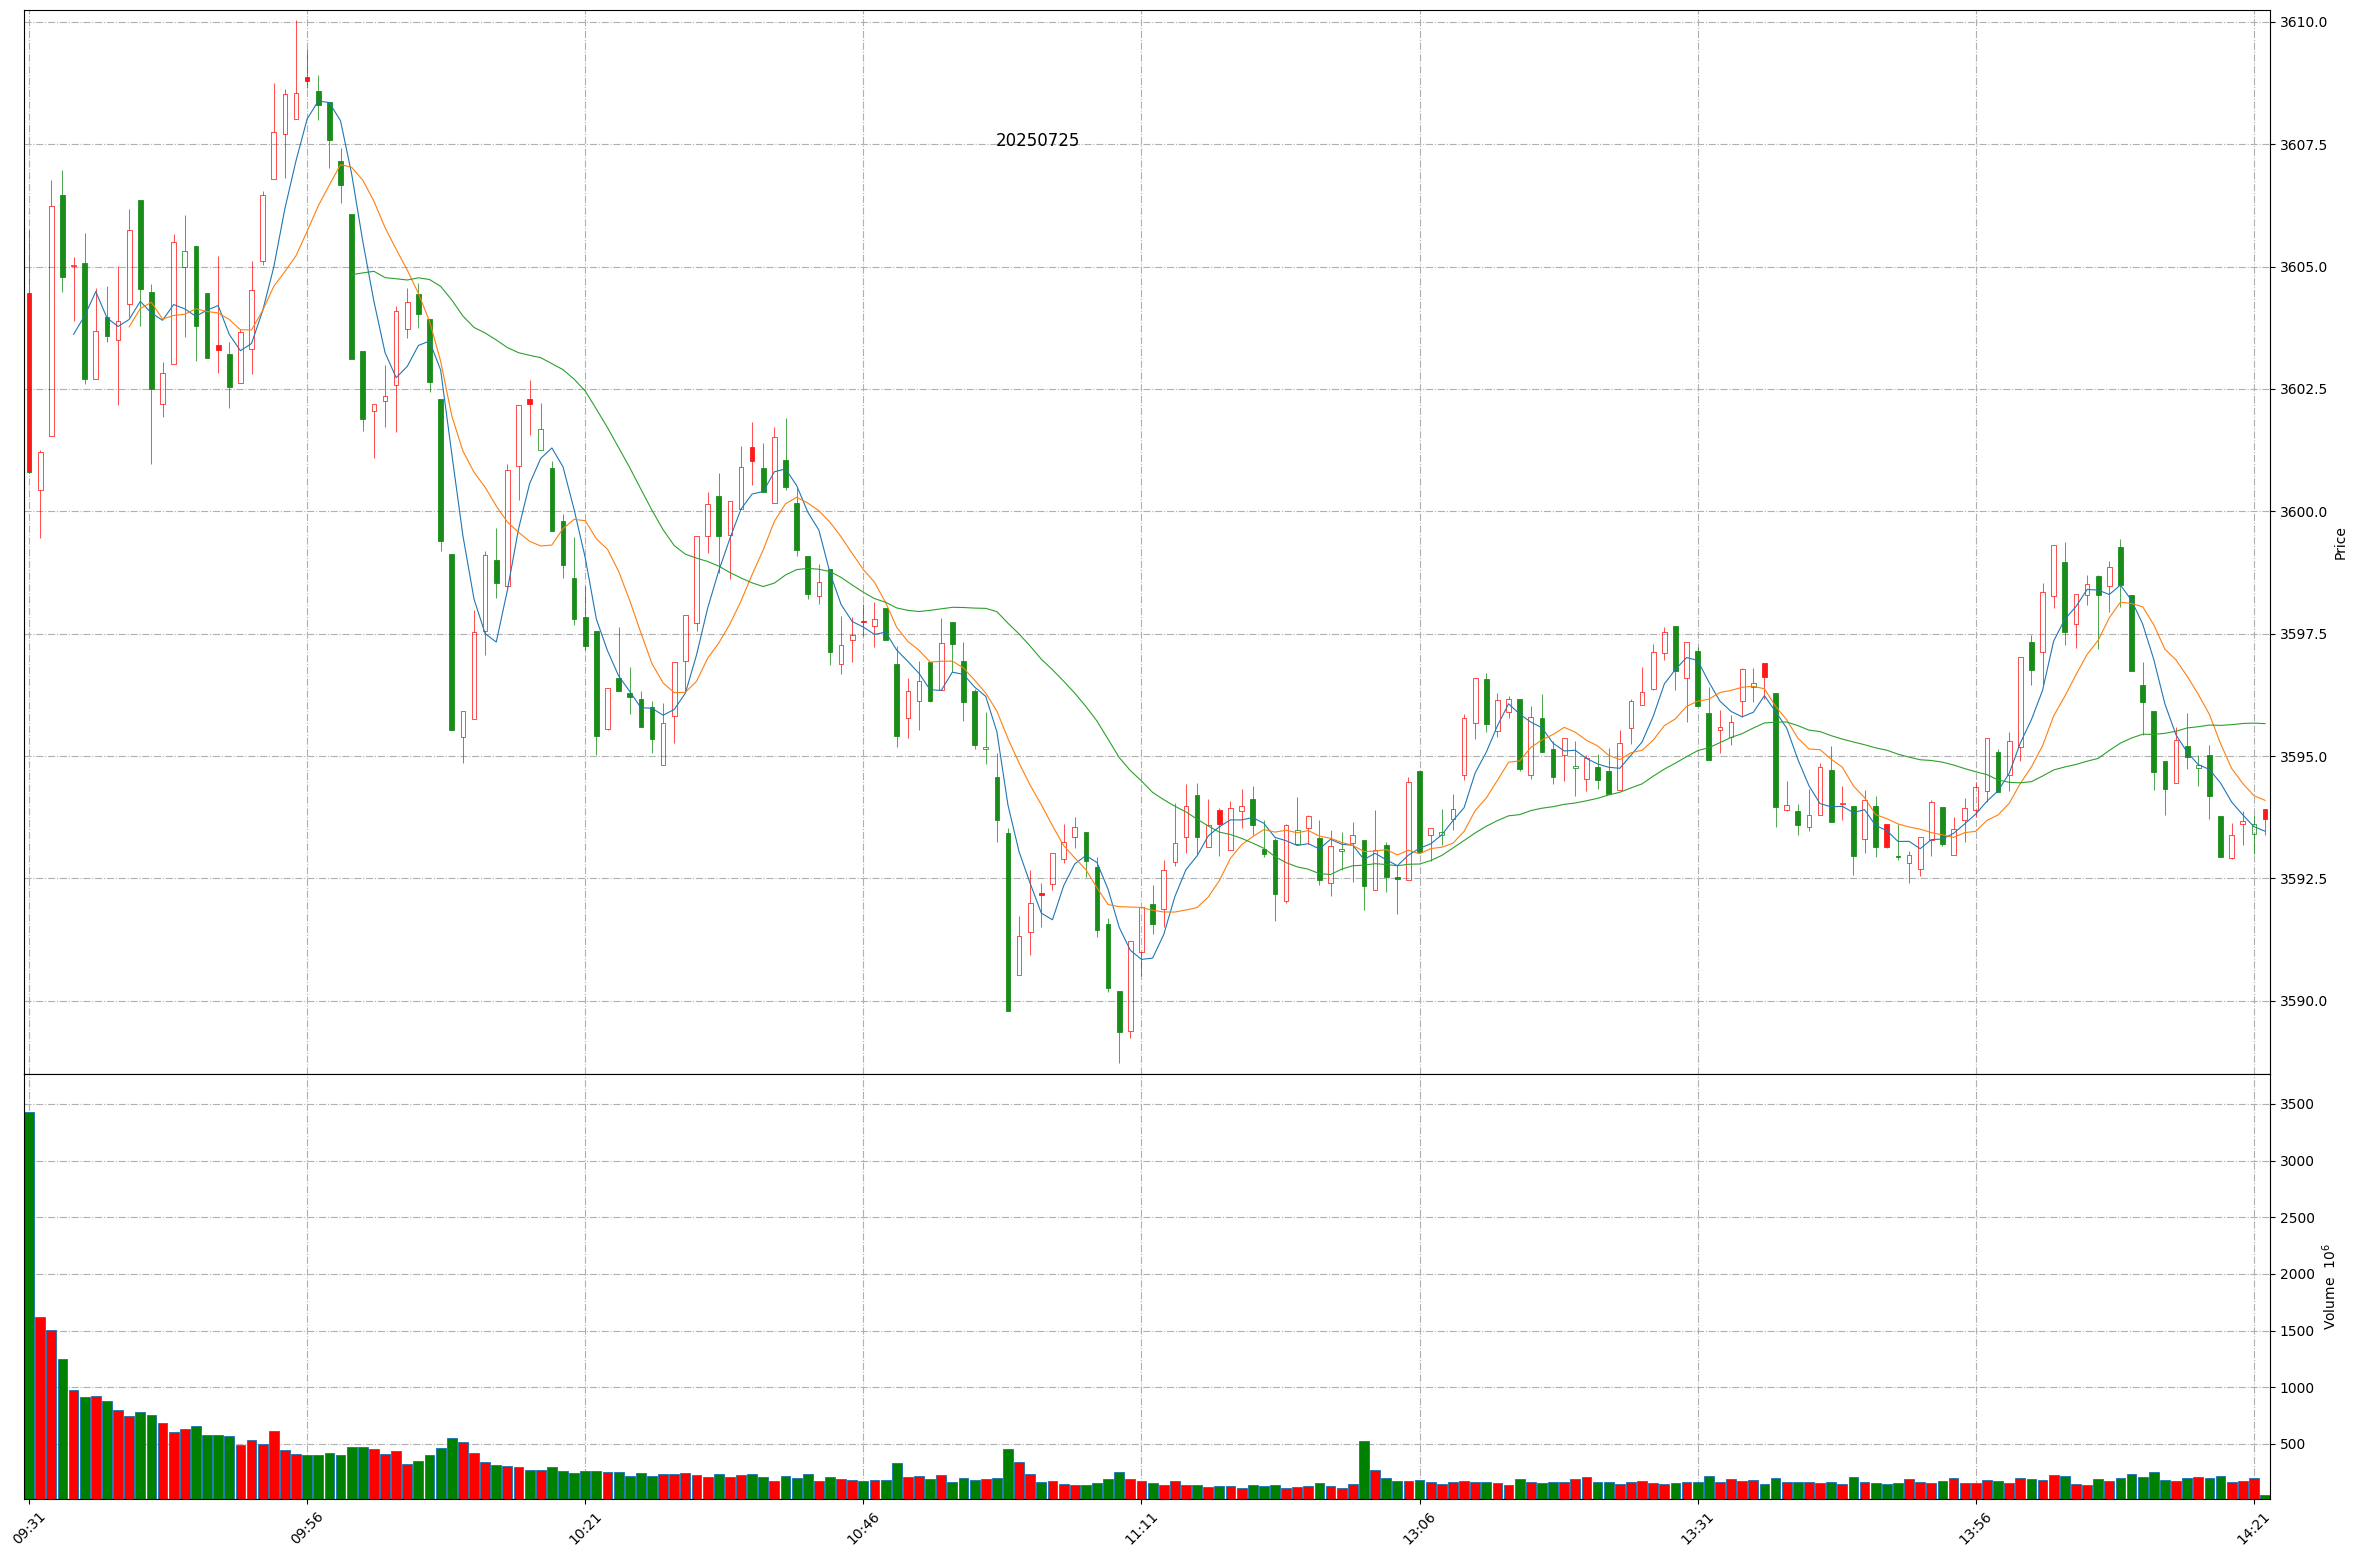
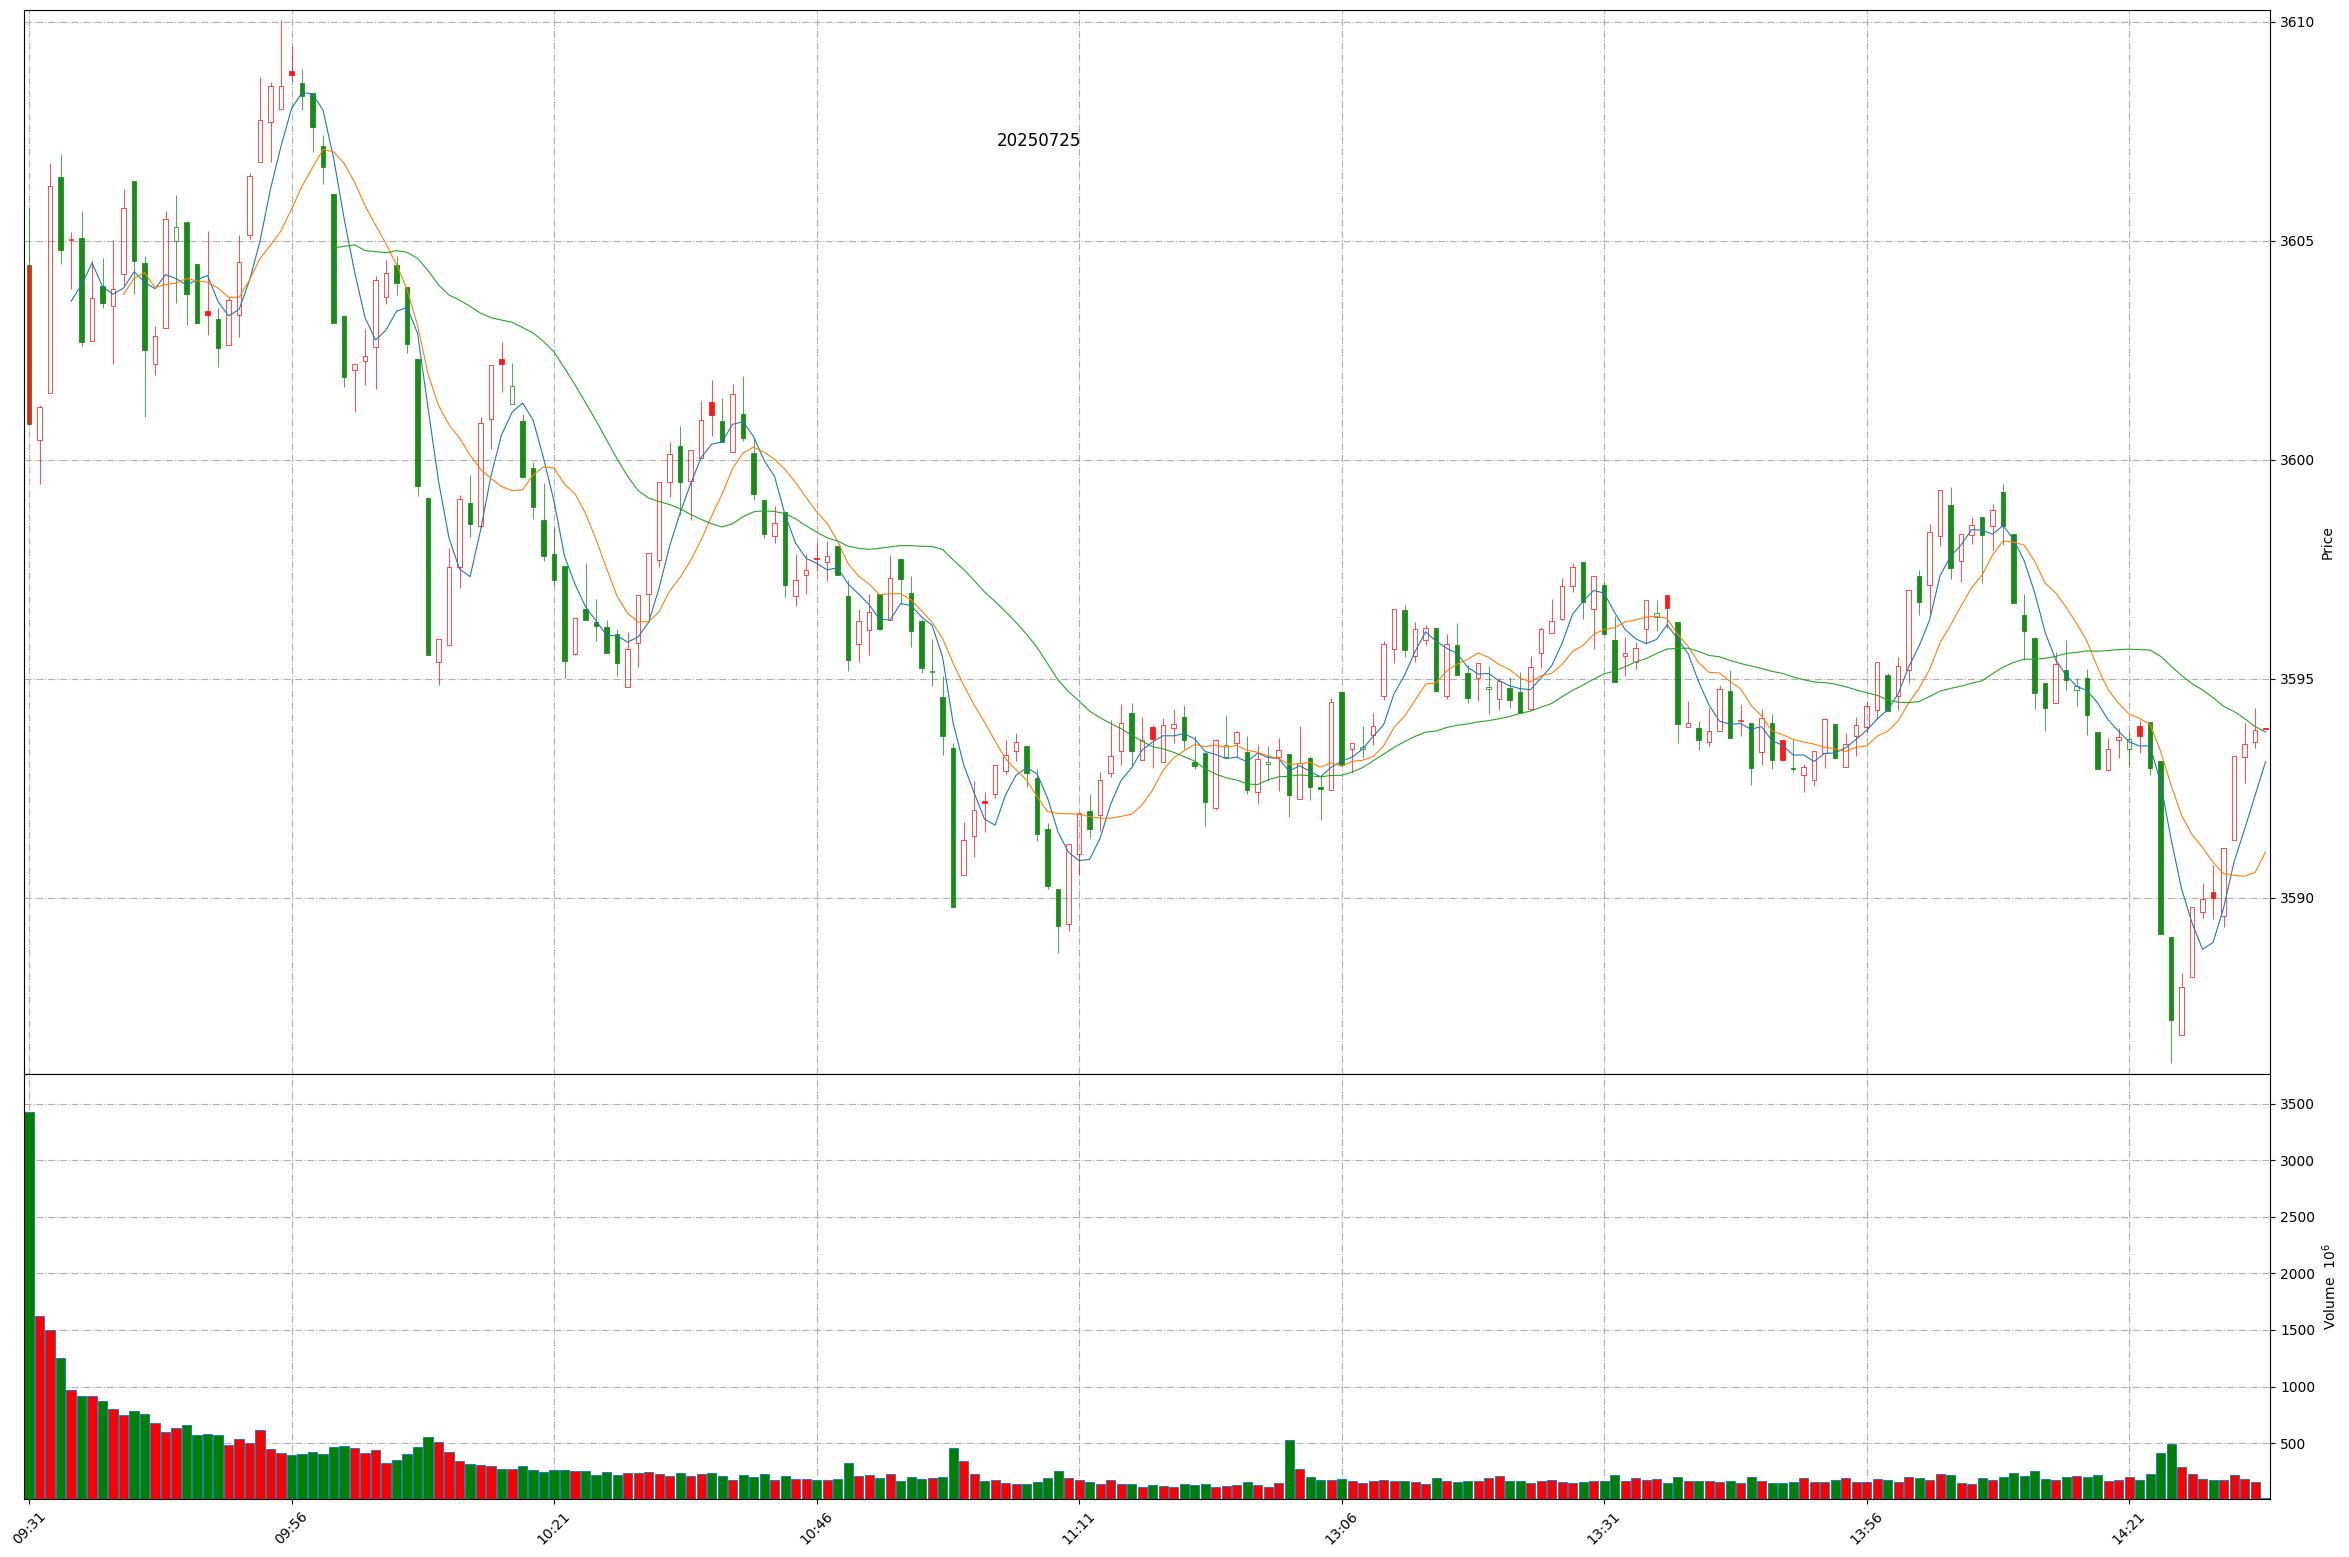
Github action update at 2025-07-25 14:33:22.

diff --git a/README.md b/README.md
@@ -1,11 +1,11 @@
 
 # Daily-A-share-market-quotes 每日 A 股指数（5min 更新）- 20250725
 
-### 上证指数 20250725 14:21
+### 上证指数 20250725 14:33
 ![](./fig/2025/7/20250725-sh000001.png)
 
-### 深证成指 20250725 14:21
+### 深证成指 20250725 14:33
 ![](./fig/2025/7/20250725-sz399001.png)
 
-### 北证50 20250725 14:21
+### 北证50 20250725 14:33
 ![](./fig/2025/7/20250725-bj899050.png)
